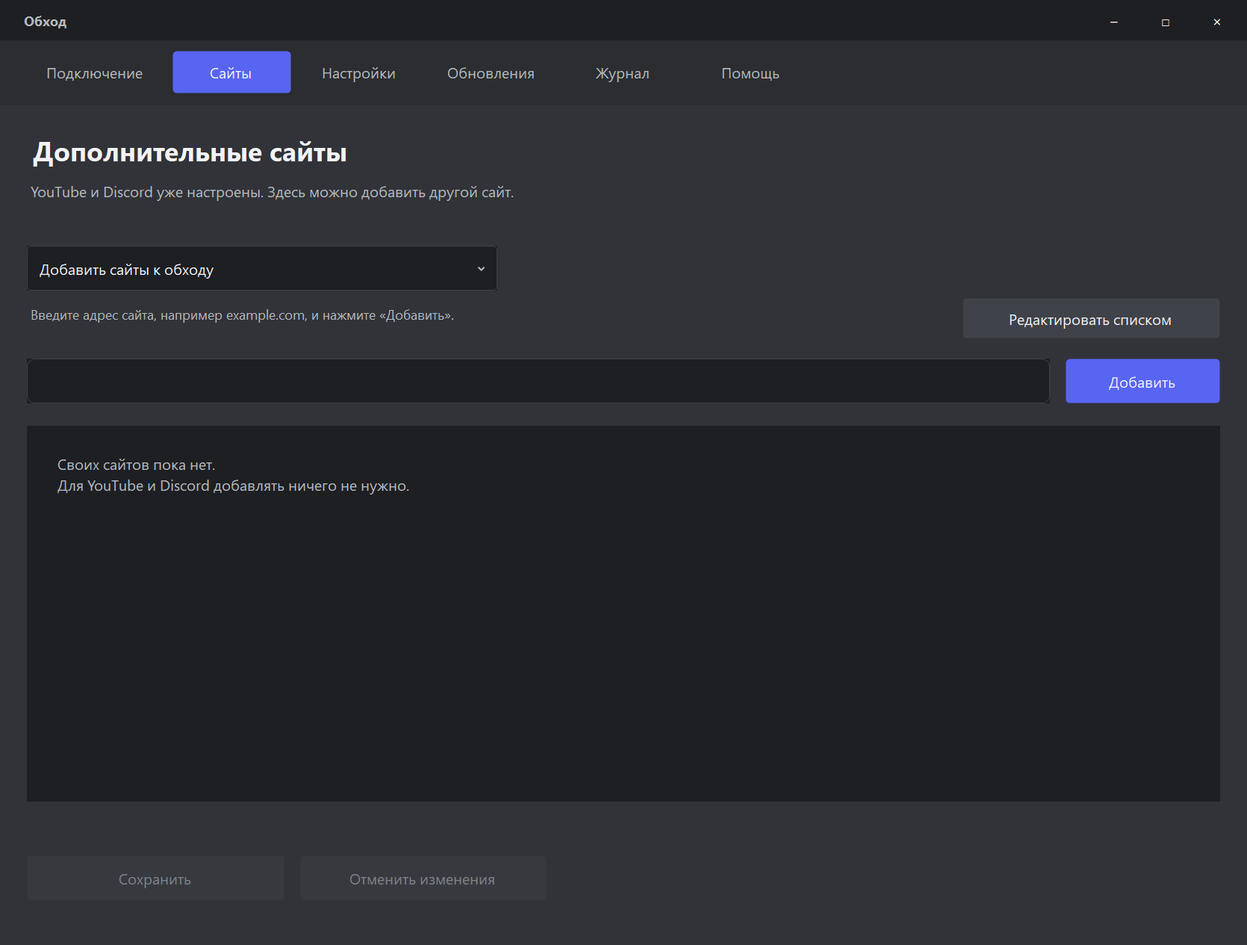
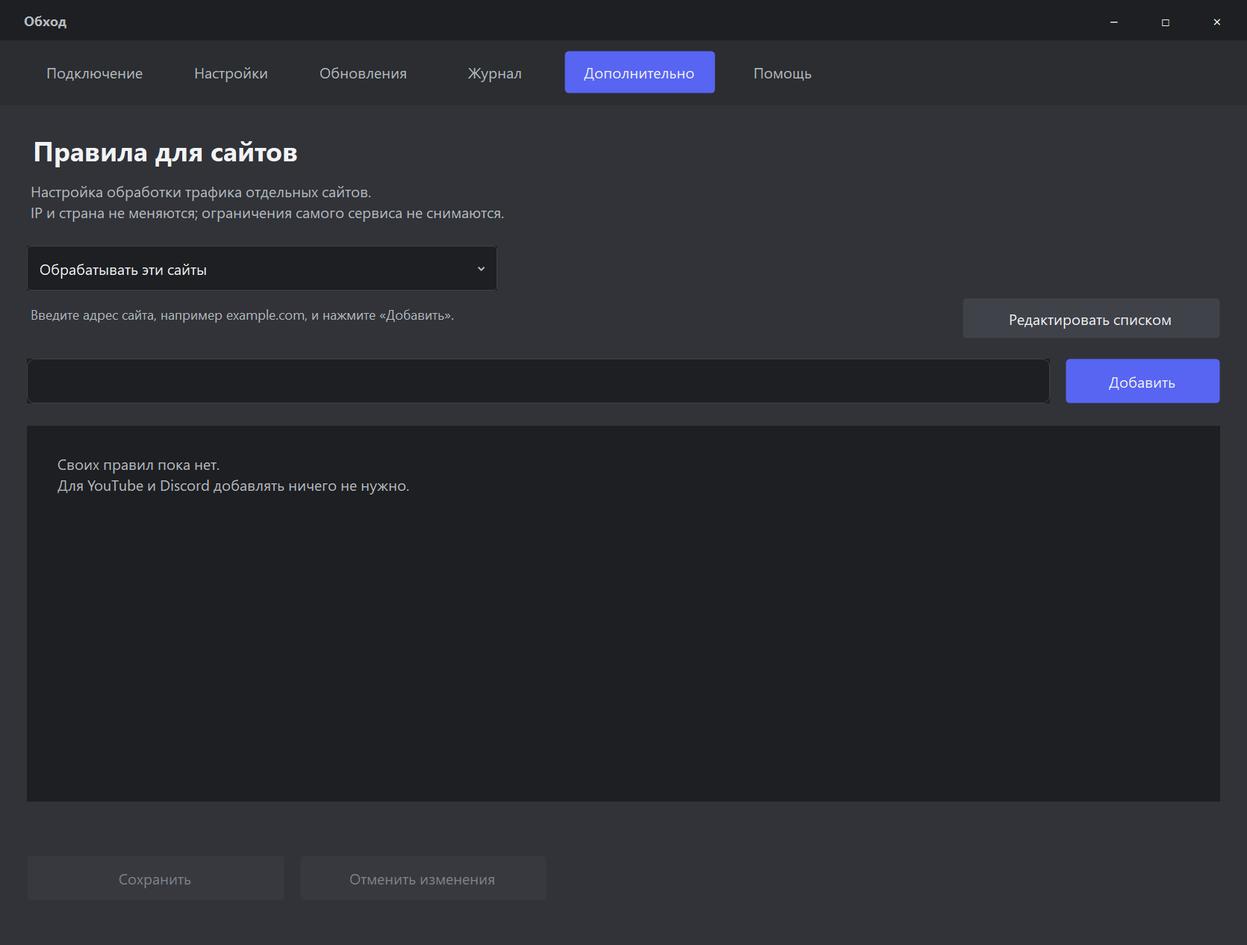
Release 0.4.2: clarify site rules and move them to advanced tab

diff --git a/src/MainInterface.cs b/src/MainInterface.cs
@@ -16,7 +16,7 @@ namespace ZapretDesktop {
             var titlebar=new Panel{Dock=DockStyle.Top,Height=Px(36),BackColor=Theme.Input};var title=Theme.Label("Обход",9,true);title.SetBounds(Px(18),Px(0),Px(120),Px(36));title.ForeColor=Theme.Muted;title.TextAlign=ContentAlignment.MiddleLeft;titlebar.Controls.Add(title);
             Button minimize=Theme.Button("−"),maximize=Theme.Button("□"),close=Theme.Button("×");foreach(var b in new[]{minimize,maximize,close}){b.BackColor=Theme.Input;b.Size=new Size(Px(44),Px(30));titlebar.Controls.Add(b);}titlebar.Resize+=(s,e)=>{close.SetBounds(titlebar.Width-Px(48),Px(3),Px(44),Px(30));maximize.SetBounds(titlebar.Width-Px(94),Px(3),Px(44),Px(30));minimize.SetBounds(titlebar.Width-Px(140),Px(3),Px(44),Px(30));};minimize.Click+=(s,e)=>WindowState=FormWindowState.Minimized;maximize.Click+=(s,e)=>{MaximizedBounds=Screen.FromControl(this).WorkingArea;WindowState=WindowState==FormWindowState.Maximized?FormWindowState.Normal:FormWindowState.Maximized;};close.Click+=(s,e)=>Hide();
             MouseEventHandler drag=(s,e)=>{if(e.Button==MouseButtons.Left){ReleaseCapture();SendMessage(Handle,0xA1,new IntPtr(2),IntPtr.Zero);}};titlebar.MouseDown+=drag;title.MouseDown+=drag;titlebar.DoubleClick+=(s,e)=>maximize.PerformClick();title.DoubleClick+=(s,e)=>maximize.PerformClick();
-            tabs=new DarkTabs{Dock=DockStyle.Fill};Panel connection=Page("Подключение"),domains=Page("Сайты"),filters=Page("Настройки"),updates=Page("Обновления"),logs=Page("Журнал"),help=Page("Помощь");tabs.AddPages(new[]{connection,domains,filters,updates,logs,help});Controls.Add(tabs);Controls.Add(titlebar);
+            tabs=new DarkTabs{Dock=DockStyle.Fill};Panel connection=Page("Подключение"),domains=Page("Дополнительно"),filters=Page("Настройки"),updates=Page("Обновления"),logs=Page("Журнал"),help=Page("Помощь");tabs.AddPages(new[]{connection,filters,updates,logs,domains,help});Controls.Add(tabs);Controls.Add(titlebar);
             var connectionLayout=new TableLayoutPanel{Dock=DockStyle.Fill,ColumnCount=1,RowCount=2,Margin=Padding.Empty,Padding=Padding.Empty};connectionLayout.ColumnStyles.Add(new ColumnStyle(SizeType.Percent,100));connectionLayout.RowStyles.Add(new RowStyle(SizeType.Absolute,Px(92)));connectionLayout.RowStyles.Add(new RowStyle(SizeType.Percent,100));connection.Controls.Add(connectionLayout);
             var status=new SurfacePanel{Dock=DockStyle.Fill,Margin=new Padding(0,0,0,Px(16))};state=Theme.Label("Обход выключен",15,true);subtitle=Theme.Label("Выберите стратегию или нажмите «Подобрать»",9);subtitle.ForeColor=Theme.Muted;connect=Theme.Button("Включить",true);connect.Click+=async(s,e)=>await Toggle();status.Controls.AddRange(new Control[]{state,subtitle,connect});status.Resize+=(s,e)=>{int pad=status.Padding.Left;connect.SetBounds(status.Width-pad-Px(170),(status.Height-Px(40))/2,Px(170),Px(40));state.SetBounds(pad,Px(12),Math.Max(Px(100),connect.Left-pad-Px(20)),Px(28));subtitle.SetBounds(pad,Px(43),Math.Max(Px(100),connect.Left-pad-Px(20)),Px(26));};
             dashboard=new Dashboard{Dock=DockStyle.Fill,Margin=Padding.Empty};connectionLayout.Controls.Add(status,0,0);connectionLayout.Controls.Add(dashboard,0,1);profiles=dashboard.Profiles;categories=dashboard.Categories;checkSummary=dashboard.Summary;runChecks=dashboard.Check;checkStatuses=dashboard.Statuses;checkTimes=dashboard.Times;
@@ -24,7 +24,7 @@ namespace ZapretDesktop {
             domainEditor=new DomainEditor{Dock=DockStyle.Fill};domains.Controls.Add(domainEditor);domainEditor.SaveRequested+=async(kind,text)=>await SaveDomains(kind,text);
             BuildFilters(filters);BuildUpdates(updates);
             var logEditor=new DarkEditor{Dock=DockStyle.Fill};log=logEditor.Editor;log.ReadOnly=true;logs.Controls.Add(logEditor);
-            Label helpTitle=Theme.Label("Как пользоваться",18,true),helpText=Theme.Label("1. Нажмите «Подобрать автоматически».\n2. Дождитесь результата и откройте нужные сайты.\n3. Если что-то не работает, попробуйте полный подбор.\n\nВ «Сайты» можно добавить домены или исключения.\nНастройки игр обычно можно оставить выключенными.\n\nКрестик прячет окно в значок у часов.\nДля завершения выберите «Выход» в меню значка.\n\nПроверьте видео YouTube и голосовой канал Discord отдельно.\nЗелёные проверки подтверждают доступ к сайтам и API.",11);helpText.ForeColor=Theme.Muted;Button shortcut=Theme.Button("Ярлык на рабочем столе",true),docs=Theme.Button("Подробная инструкция");shortcut.Click+=(s,e)=>Guard(()=>{AppShortcut.Create();shortcut.Text="Ярлык создан";});docs.Click+=(s,e)=>Guard(()=>Open("https://github.com/xxXdemidXxx/discord_obhod_app#readme"));help.Controls.AddRange(new Control[]{helpTitle,helpText,shortcut,docs});help.Resize+=(s,e)=>{int p=help.Padding.Left;helpTitle.SetBounds(p,p,help.Width-p*2,Px(40));helpText.SetBounds(p,p+Px(58),help.Width-p*2,Px(320));shortcut.SetBounds(p,p+Px(395),Px(250),Px(42));docs.SetBounds(p+Px(266),p+Px(395),Px(250),Px(42));};
+            Label helpTitle=Theme.Label("Как пользоваться",18,true),helpText=Theme.Label("1. Нажмите «Подобрать автоматически».\n2. Дождитесь результата и откройте нужные сайты.\n3. Если что-то не работает, попробуйте полный подбор.\n\n«Дополнительно» — правила для отдельных сайтов.\nIP и страна подключения не меняются.\nНастройки игр обычно можно оставить выключенными.\n\nКрестик прячет окно в значок у часов.\nДля завершения выберите «Выход» в меню значка.\n\nПроверьте видео YouTube и голосовой канал Discord отдельно.\nЗелёные проверки подтверждают доступ к сайтам и API.",11);helpText.ForeColor=Theme.Muted;Button shortcut=Theme.Button("Ярлык на рабочем столе",true),docs=Theme.Button("Подробная инструкция");shortcut.Click+=(s,e)=>Guard(()=>{AppShortcut.Create();shortcut.Text="Ярлык создан";});docs.Click+=(s,e)=>Guard(()=>Open("https://github.com/xxXdemidXxx/discord_obhod_app#readme"));help.Controls.AddRange(new Control[]{helpTitle,helpText,shortcut,docs});help.Resize+=(s,e)=>{int p=help.Padding.Left;helpTitle.SetBounds(p,p,help.Width-p*2,Px(40));helpText.SetBounds(p,p+Px(58),help.Width-p*2,Px(320));shortcut.SetBounds(p,p+Px(395),Px(250),Px(42));docs.SetBounds(p+Px(266),p+Px(395),Px(250),Px(42));};
         }
         void BuildFilters(Panel page){
             var surface=new SurfacePanel{Dock=DockStyle.Top,Height=Px(480)};page.Controls.Add(surface);Label title=Theme.Label("Игровые соединения",18,true),description=Theme.Label("Дополнительный обход для игр (GameFilter).\nДля YouTube и Discord обычно не нужен. Включайте, если игра\nне подключается; если появились сбои — выключите.",10);description.ForeColor=Theme.Muted;var mode=Theme.Label("Режим",10,true);games=new DarkSelect();games.Items.AddRange(new object[]{"Выключен · рекомендуется","TCP и UDP · все игровые соединения","Только TCP","Только UDP"});var advanced=Theme.Button("Настроить порты ▾");tcp=Input(0,0,200);udp=Input(0,0,200);Label tcpLabel=Theme.Label("TCP-порты",9,true),udpLabel=Theme.Label("UDP-порты",9,true),portHelp=Theme.Label("Если не уверены, оставьте 1024-65535.",9);portHelp.ForeColor=Theme.Muted;saveGameButton=Theme.Button("Сохранить",true);gameSaved=Theme.Label("",9);gameSaved.ForeColor=Theme.Success;saveGameButton.Click+=(s,e)=>Guard(()=>{SaveGame();gameSaved.Text="Настройки сохранены";});Action layout=()=>{int p=surface.Padding.Left,w=surface.Width-p*2;title.SetBounds(p,p,w,Px(36));description.SetBounds(p,p+Px(54),w,Px(76));mode.SetBounds(p,p+Px(152),w,Px(22));games.SetBounds(p,p+Px(185),Math.Min(w,Px(540)),Px(40));advanced.SetBounds(p,p+Px(245),Px(220),Px(36));tcpLabel.SetBounds(p,p+Px(301),Px(200),Px(24));udpLabel.SetBounds(p+Px(220),p+Px(301),Px(200),Px(24));tcp.SetBounds(p,p+Px(333),Px(200),Px(28));udp.SetBounds(p+Px(220),p+Px(333),Px(200),Px(28));portHelp.SetBounds(p,p+Px(379),w,Px(24));foreach(var c in new Control[]{tcp,udp,tcpLabel,udpLabel,portHelp})c.Visible=expandedPorts;saveGameButton.SetBounds(p,p+(expandedPorts?Px(423):Px(305)),Px(180),Px(42));gameSaved.SetBounds(p+Px(200),saveGameButton.Top,w-Px(200),Px(42));surface.Height=Px(expandedPorts?510:395);};advanced.Click+=(s,e)=>{expandedPorts=!expandedPorts;advanced.Text=expandedPorts?"Скрыть порты ▴":"Настроить порты ▾";layout();};surface.Controls.AddRange(new Control[]{title,description,mode,games,advanced,tcp,udp,tcpLabel,udpLabel,portHelp,saveGameButton,gameSaved});surface.Resize+=(s,e)=>layout();layout();

diff --git a/src/DomainEditor.cs b/src/DomainEditor.cs
@@ -6,7 +6,7 @@ namespace ZapretDesktop {
     public sealed class SiteEntries : ResponsiveControl {
         readonly SlimScroll scroll=new SlimScroll();string[] entries=new string[0];int offset;
         public event Action<string> RemoveRequested;
-        public string EmptyText="Своих сайтов пока нет.\nДля YouTube и Discord добавлять ничего не нужно.";
+        public string EmptyText="Своих правил пока нет.\nДля YouTube и Discord добавлять ничего не нужно.";
         public SiteEntries(){DoubleBuffered=true;BackColor=Theme.Input;Font=new Font("Segoe UI",10);scroll.Dock=DockStyle.Right;scroll.BackColor=BackColor;Controls.Add(scroll);scroll.Changed+=value=>{offset=value;Invalidate();};}
         public void SetEntries(string text){entries=text.Replace("\r","").Split('\n').Select(x=>x.Trim()).Where(x=>x.Length>0 && !x.StartsWith("#")).ToArray();Sync();Invalidate();}
         void Sync(){int page=Math.Max(1,Height/S(44));offset=Math.Min(offset,Math.Max(0,entries.Length-page));scroll.SetRange(entries.Length-page,page,offset);}
@@ -25,9 +25,9 @@ namespace ZapretDesktop {
         public bool Dirty{get{return text.Editor.Text!=baseline;}}
         public DomainEditor(){
             BackColor=Theme.Background;
-            title=Theme.Label("Дополнительные сайты",18,true);
-            description=Theme.Label("YouTube и Discord уже настроены. Здесь можно добавить другой сайт.",10);description.ForeColor=Theme.Muted;
-            list=new DarkSelect();list.Items.AddRange(new object[]{"Добавить сайты к обходу","Исключить сайты из обхода","IP-исключения · дополнительно"});list.SelectedIndex=0;list.SelectedIndexChanged+=(s,e)=>ChangeList();
+            title=Theme.Label("Правила для сайтов",18,true);
+            description=Theme.Label("Настройка обработки трафика отдельных сайтов.\nIP и страна не меняются; ограничения самого сервиса не снимаются.",10);description.ForeColor=Theme.Muted;
+            list=new DarkSelect();list.Items.AddRange(new object[]{"Обрабатывать эти сайты","Не обрабатывать эти сайты","IP-исключения · дополнительно"});list.SelectedIndex=0;list.SelectedIndexChanged+=(s,e)=>ChangeList();
             text=new DarkEditor{Visible=false};entries=new SiteEntries();
             text.Editor.TextChanged+=(s,e)=>{entries.SetEntries(text.Editor.Text);if(!loading){status.Text=Dirty?"Нажмите «Сохранить», чтобы применить изменения":"";status.ForeColor=Theme.Muted;RefreshSave();}};
             inputFrame=new SurfacePanel{BackColor=Theme.Input,Padding=Padding.Empty};input=new TextBox{Name="site-input",BackColor=Theme.Input,ForeColor=Theme.Text,BorderStyle=BorderStyle.None,Font=new Font("Segoe UI",11)};inputFrame.Controls.Add(input);inputFrame.Resize+=(s,e)=>input.SetBounds(S(12),Math.Max(0,(inputFrame.Height-input.PreferredHeight)/2),Math.Max(1,inputFrame.Width-S(24)),input.PreferredHeight);
@@ -44,9 +44,9 @@ namespace ZapretDesktop {
         void AddSite(){if(!allowed)return;try{string site=DomainLists.FromInput(input.Text,loaded);if(text.Editor.Text.Replace("\r","").Split('\n').Any(x=>String.Equals(x.Trim(),site,StringComparison.OrdinalIgnoreCase)))throw new System.IO.InvalidDataException("Этот адрес уже добавлен.");text.Editor.Text=text.Editor.Text.TrimEnd()+Environment.NewLine+site+Environment.NewLine;input.Clear();input.Focus();}catch(Exception ex){SetError(ex.Message);}}
         public void LoadEngine(string path){engine=path;loading=true;loaded=Math.Max(0,list.SelectedIndex);text.Editor.Text=DomainLists.Read(path,loaded);baseline=text.Editor.Text;loading=false;status.Text="";entries.SetEntries(text.Editor.Text);RefreshSave();UpdateExplanation();}
         void UpdateExplanation(){
-            description.Text=loaded==0?"YouTube и Discord уже настроены. Здесь можно добавить другой сайт.":loaded==1?"Добавьте сайт сюда, если обход мешает его работе.":"Дополнительные исключения по IP. Если не уверены, оставьте список пустым.";
+            description.Text=loaded==0?"Настройка обработки трафика отдельных сайтов.\nIP и страна не меняются; ограничения самого сервиса не снимаются.":loaded==1?"Исключите сайт из обработки, если она мешает его работе.":"Дополнительные исключения по IP. Если не уверены, оставьте список пустым.";
             hint.Text=loaded==2?"Введите IP-адрес или сеть, например 192.168.1.0/24.":"Введите адрес сайта, например example.com, и нажмите «Добавить».";
-            entries.EmptyText=loaded==0?"Своих сайтов пока нет.\nДля YouTube и Discord добавлять ничего не нужно.":"Исключений пока нет.\nДобавлять их необязательно.";entries.Invalidate();
+            entries.EmptyText=loaded==0?"Своих правил пока нет.\nДля YouTube и Discord добавлять ничего не нужно.":"Исключений пока нет.\nДобавлять их необязательно.";entries.Invalidate();
         }
         void ChangeList(){if(engine==null || loading)return;if(Dirty){loading=true;list.SelectedIndex=loaded;loading=false;status.Text="Сначала сохраните или отмените изменения.";return;}loaded=list.SelectedIndex;input.Clear();LoadEngine(engine);}
         public void Saved(){LoadEngine(engine);status.Text="Сохранено";status.ForeColor=Theme.Success;}

diff --git a/tests/Tests.cs b/tests/Tests.cs
@@ -149,7 +149,7 @@ namespace ZapretDesktop {
             Assert(popup!=null && popup.Visible,"Custom strategy dropdown opens");
             using(var image=new Bitmap(popup.Width,popup.Height)){popup.DrawToBitmap(image,new Rectangle(Point.Empty,popup.Size));image.Save(Path.Combine(root,"tests","window-dropdown.png"));}
             dashboard.Profiles.Choose(1);Assert(dashboard.Profiles.SelectedIndex==1,"Custom strategy dropdown applies item selection");dashboard.Profiles.SelectedIndex=0;
-            tabs.SelectedIndex=1;var editor=AllControls(form).OfType<DomainEditor>().Single();editor.TextEditor.Text=String.Join("\r\n",Enumerable.Range(1,100).Select(i=>"site-"+i+".example"));Application.DoEvents();
+            tabs.SelectedIndex=tabs.TabPages.FindIndex(x=>AllControls(x).OfType<DomainEditor>().Any());var editor=AllControls(form).OfType<DomainEditor>().Single();editor.TextEditor.Text=String.Join("\r\n",Enumerable.Range(1,100).Select(i=>"site-"+i+".example"));Application.DoEvents();
             Assert(editor.Dirty && AllControls(editor).OfType<SlimScroll>().Any(x=>x.Visible),"Editor tracks unsaved text and shows thin scrollbar for long lists");
             using(var image=new Bitmap(form.Width,form.Height)){form.DrawToBitmap(image,new Rectangle(Point.Empty,form.Size));image.Save(Path.Combine(root,"tests","window-domain-scroll.png"));}
             editor.Discard();editor.TextEditor.Text="ui-save.example";var save=AllControls(editor).OfType<Button>().Single(x=>x.Text=="Сохранить");
@@ -168,7 +168,7 @@ namespace ZapretDesktop {
                 Assert(dashboard.History.Bottom<=dashboard.Height+1 && dashboard.Apply.Right<=dashboard.Width && dashboard.Dns.Right<=dashboard.Width,"Dashboard fits resized window "+size);
                 using(var picture=new Bitmap(form.Width,form.Height)){form.DrawToBitmap(picture,new Rectangle(Point.Empty,form.Size));picture.Save(Path.Combine(root,"tests","window-"+(size.Width<1000?"compact":"wide")+".png"));}
             }
-            form.Size=original;tabs.SelectedIndex=2;
+            form.Size=original;tabs.SelectedIndex=tabs.TabPages.FindIndex(x=>x.Text=="Настройки");
             AllControls(form).OfType<Button>().First(x=>x.Text.StartsWith("Настроить порты")).PerformClick();Application.DoEvents();
             using(var picture=new Bitmap(form.Width,form.Height)){form.DrawToBitmap(picture,new Rectangle(Point.Empty,form.Size));picture.Save(Path.Combine(root,"tests","window-ports.png"));}
             tabs.SelectedIndex=0;

diff --git a/src/Version.cs b/src/Version.cs
@@ -2,5 +2,5 @@ using System.Reflection;
 [assembly: AssemblyVersion(ZapretDesktop.AppVersion.Value)]
 [assembly: AssemblyFileVersion(ZapretDesktop.AppVersion.Value)]
 namespace ZapretDesktop {
-    public static class AppVersion { public const string Value = "0.4.1.0"; }
+    public static class AppVersion { public const string Value = "0.4.2.0"; }
 }

diff --git a/README.md b/README.md
@@ -1,6 +1,6 @@
 # Обход
 
-Приложение для Windows 10/11 x64 с окном управления Flowseal zapret-discord-youtube. Это самостоятельная оболочка, не официальный продукт Flowseal. Версия оболочки **0.4.1**, включённое ядро **1.10.3**. Нужен .NET Framework 4.8.
+Приложение для Windows 10/11 x64 с окном управления Flowseal zapret-discord-youtube. Это самостоятельная оболочка, не официальный продукт Flowseal. Версия оболочки **0.4.2**, включённое ядро **1.10.3**. Нужен .NET Framework 4.8.
 
 **[Скачать последнюю версию](https://github.com/xxXdemidXxx/discord_obhod_app/releases/latest)** · [Инструкция для тестирования](TESTING-GUIDE.txt)
 
@@ -28,7 +28,7 @@
 
 ## Настройки и ядро
 
-«Игровые соединения» (GameFilter) расширяют обработку на игровые порты. Для обычного использования оставьте выключенными. Режим находится в «Настройки», диапазоны скрыты под «Настроить порты»; менять их можно при выключенном обходе. На странице **«Сайты»** можно добавить другой сайт к обходу или исключить сайт, если обход мешает его работе. YouTube и Discord уже настроены — добавлять их не требуется. Вставьте адрес или ссылку, нажмите «Добавить», затем «Сохранить». Удаление — крестиком рядом с адресом. «Редактировать списком» открывает полный редактор; там указываются домены без https:// и путей. Служебные строки ядра скрыты; пустой список безопасен для запуска. Поддерживаются IDN-домены, IPv4/IPv6 и CIDR. «Сохранить и применить» перезапускает собственный обход и проверяет сервисы. При работе другого winws сохранение заблокировано.
+«Игровые соединения» (GameFilter) расширяют обработку на игровые порты. Для обычного использования оставьте выключенными. Режим находится в «Настройки», диапазоны скрыты под «Настроить порты»; менять их можно при выключенном обходе. Страница **«Дополнительно»** находится ближе к концу вкладок и задаёт правила обработки отдельных сайтов. Добавление домена не гарантирует доступ: zapret помогает против некоторых фильтров провайдера, но не меняет внешний IP и страну. Региональные ограничения самого сервиса и блокировки по IP этим не снимаются. YouTube и Discord уже настроены — добавлять их не требуется. Вставьте адрес или ссылку, нажмите «Добавить», затем «Сохранить». Удаление — крестиком рядом с адресом. «Редактировать списком» открывает полный редактор; там указываются домены без https:// и путей. Служебные строки ядра скрыты; пустой список безопасен для запуска. Поддерживаются IDN-домены, IPv4/IPv6 и CIDR. «Сохранить и применить» перезапускает собственный обход и проверяет сервисы. При работе другого winws сохранение заблокировано.
 Стратегии читаются как данные; BAT не исполняются. Параметры передаются непосредственно winws. Для стратегий с `dpi-desync-fooling=ts` включаются TCP timestamps, как в исходном service.bat; это записывается в журнал. Остальные стратегии эту настройку не меняют.
 
 Ядро обновляется отдельной кнопкой из [официальных релизов Flowseal](https://github.com/Flowseal/zapret-discord-youtube/releases/latest). Проверяются URL, размер и SHA-256 GitHub. Распаковка запрещает выход за каталог и символьные ссылки; проверяются файлы и стратегии. Пользовательские списки, GameFilter, изменённый IPSet и активные UDP-фейки сохраняются. Предыдущее ядро доступно для отката.
@@ -41,7 +41,7 @@
 
  При выключенном обходе и отсутствии других операций оболочка сама обновится и перезапустится. При активном обходе сборка ждёт остановки; кнопка «Установить» позволяет обновиться сразу и восстановить подключение. Заменяются EXE и его config; `data`, настройки, списки и версии ядра не перезаписываются. Предыдущий EXE остаётся в `.previous`. При ошибке замены восстанавливается старый EXE.
 
-Старые 0.1/0.2 не умеют обновлять оболочку: один раз установите 0.4.1 вручную; версия 0.3.0 умеет обновляться автоматически. Подпись издателя отсутствует; проверка SHA-256 удостоверяет соответствие опубликованному GitHub-архиву.
+Старые 0.1/0.2 не умеют обновлять оболочку: один раз установите 0.4.2 вручную; версия 0.3.0 умеет обновляться автоматически. Подпись издателя отсутствует; проверка SHA-256 удостоверяет соответствие опубликованному GitHub-архиву.
 
 ## Разработка и публикация
 
@@ -54,15 +54,15 @@
 ./package-friends.ps1
 ```
 
-`build.ps1` создаёт `dist/Obhod-0.4.1.exe`. `package-friends.ps1` создаёт чистый `releases/Obhod-0.4.1-win-x64.zip`, внутри стабильное имя `Obhod.exe`, стандартные настройки и проверенное официальное ядро. Личные списки и журналы не попадают в архив. `prepare.ps1` сохраняет локальные настройки и импортирует ядра для разработки.
+`build.ps1` создаёт `dist/Obhod-0.4.2.exe`. `package-friends.ps1` создаёт чистый `releases/Obhod-0.4.2-win-x64.zip`, внутри стабильное имя `Obhod.exe`, стандартные настройки и проверенное официальное ядро. Личные списки и журналы не попадают в архив. `prepare.ps1` сохраняет локальные настройки и импортирует ядра для разработки.
 
 Проверки охватывают разбор стратегий, Windows-кавычки, владение процессом, ZIP traversal, сохранение/откат, полный автоподбор, повторную проверку победителя, отмену, классификацию DNS/TLS и проверку метаданных релизов. Настоящий драйвер в тестах не запускается. С `./test.ps1 -Network` дополнительно проверяются реальные GitHub и HTTPS-запросы. Снимки окна сохраняются в `tests/window*.png`.
 
 **Для новой версии:**
 
-1. Увеличьте `AppVersion.Value` в `src/Version.cs`, например до `0.4.2.0`. Обновите `RELEASE-NOTES.md`.
+1. Увеличьте `AppVersion.Value` в `src/Version.cs`, например до `0.4.3.0`. Обновите `RELEASE-NOTES.md`.
 2. Сделайте commit и push в `main`.
-3. Workflow `Build, test and release` соберёт и проверит приложение, создаст тег `v0.4.2` и опубликует ZIP с SHA-256.
+3. Workflow `Build, test and release` соберёт и проверит приложение, создаст тег `v0.4.3` и опубликует ZIP с SHA-256.
 4. Установленные приложения получат новый релиз при следующей проверке. Повторный push с прежним номером не перезаписывает опубликованный релиз; для обновления нужен новый номер.
 
 Pull request только собирается и проверяется, без публикации. GitHub Actions должен быть разрешён в настройках репозитория. Отдельные токены для сборки не нужны: используется ограниченный `GITHUB_TOKEN`.

diff --git a/RELEASE-NOTES.md b/RELEASE-NOTES.md
@@ -1,14 +1,6 @@
-# Обход 0.4.1
+# Обход 0.4.2
 
-- Исправлена двойная рамка и системный заголовок окна после разворачивания и переключения между окнами.
-- Обновления приложения читаются из описания, опубликованного вместе со сборкой, без обращения к GitHub REST API. Проверка SHA-256 и версии EXE сохранена.
-- Проверки сервисов больше не тратят лимит GitHub API при переборе стратегий.
-- При временном ограничении обновлений ядра показывается понятный статус; повторные запросы ждут разрешённого GitHub времени. Всплывающего окна с ошибкой 403 нет.
-- «Сайты»: понятное добавление адреса или ссылки, удаление записи крестиком, пояснение, что YouTube и Discord уже настроены. Служебные комментарии скрыты. Редактирование полным списком доступно отдельно.
-- Пустые пользовательские списки сохраняются в совместимом с ядром виде.
+- Вкладка «Сайты» переименована в «Дополнительно» и перенесена перед «Помощь».
+- Уточнено назначение правил: обработка отдельных сайтов может помочь против некоторых блокировок провайдера. Приложение не меняет IP или страну и не снимает региональные ограничения самого сервиса. Добавление домена не гарантирует доступ.
 
-Автоматическая проверка обновлений по-прежнему выполняется только при запуске.
-
-**Обновление:** откройте «Обновления» и проверьте приложение. Если старая версия показывает 403, скачайте **Obhod-0.4.1-win-x64.zip** вручную, завершите приложение через меню значка у часов и замените в своей папке только **Obhod.exe** и **Obhod.exe.config**. Папку **data** не заменяйте: там настройки и ваши списки. Если EXE у вас называется `Obhod-0.4.0.exe`, скопируйте новые EXE и config под существующими именами, чтобы ярлык продолжал работать.
-
-Для первого запуска распакуйте всю папку и откройте Obhod.exe. Windows 10/11 x64, .NET Framework 4.8.
+Для обновления откройте «Обновления» → «Проверить обновления». Настройки и списки сохраняются. Для первого запуска скачайте Obhod-0.4.2-win-x64.zip, распакуйте всю папку и откройте Obhod.exe.
